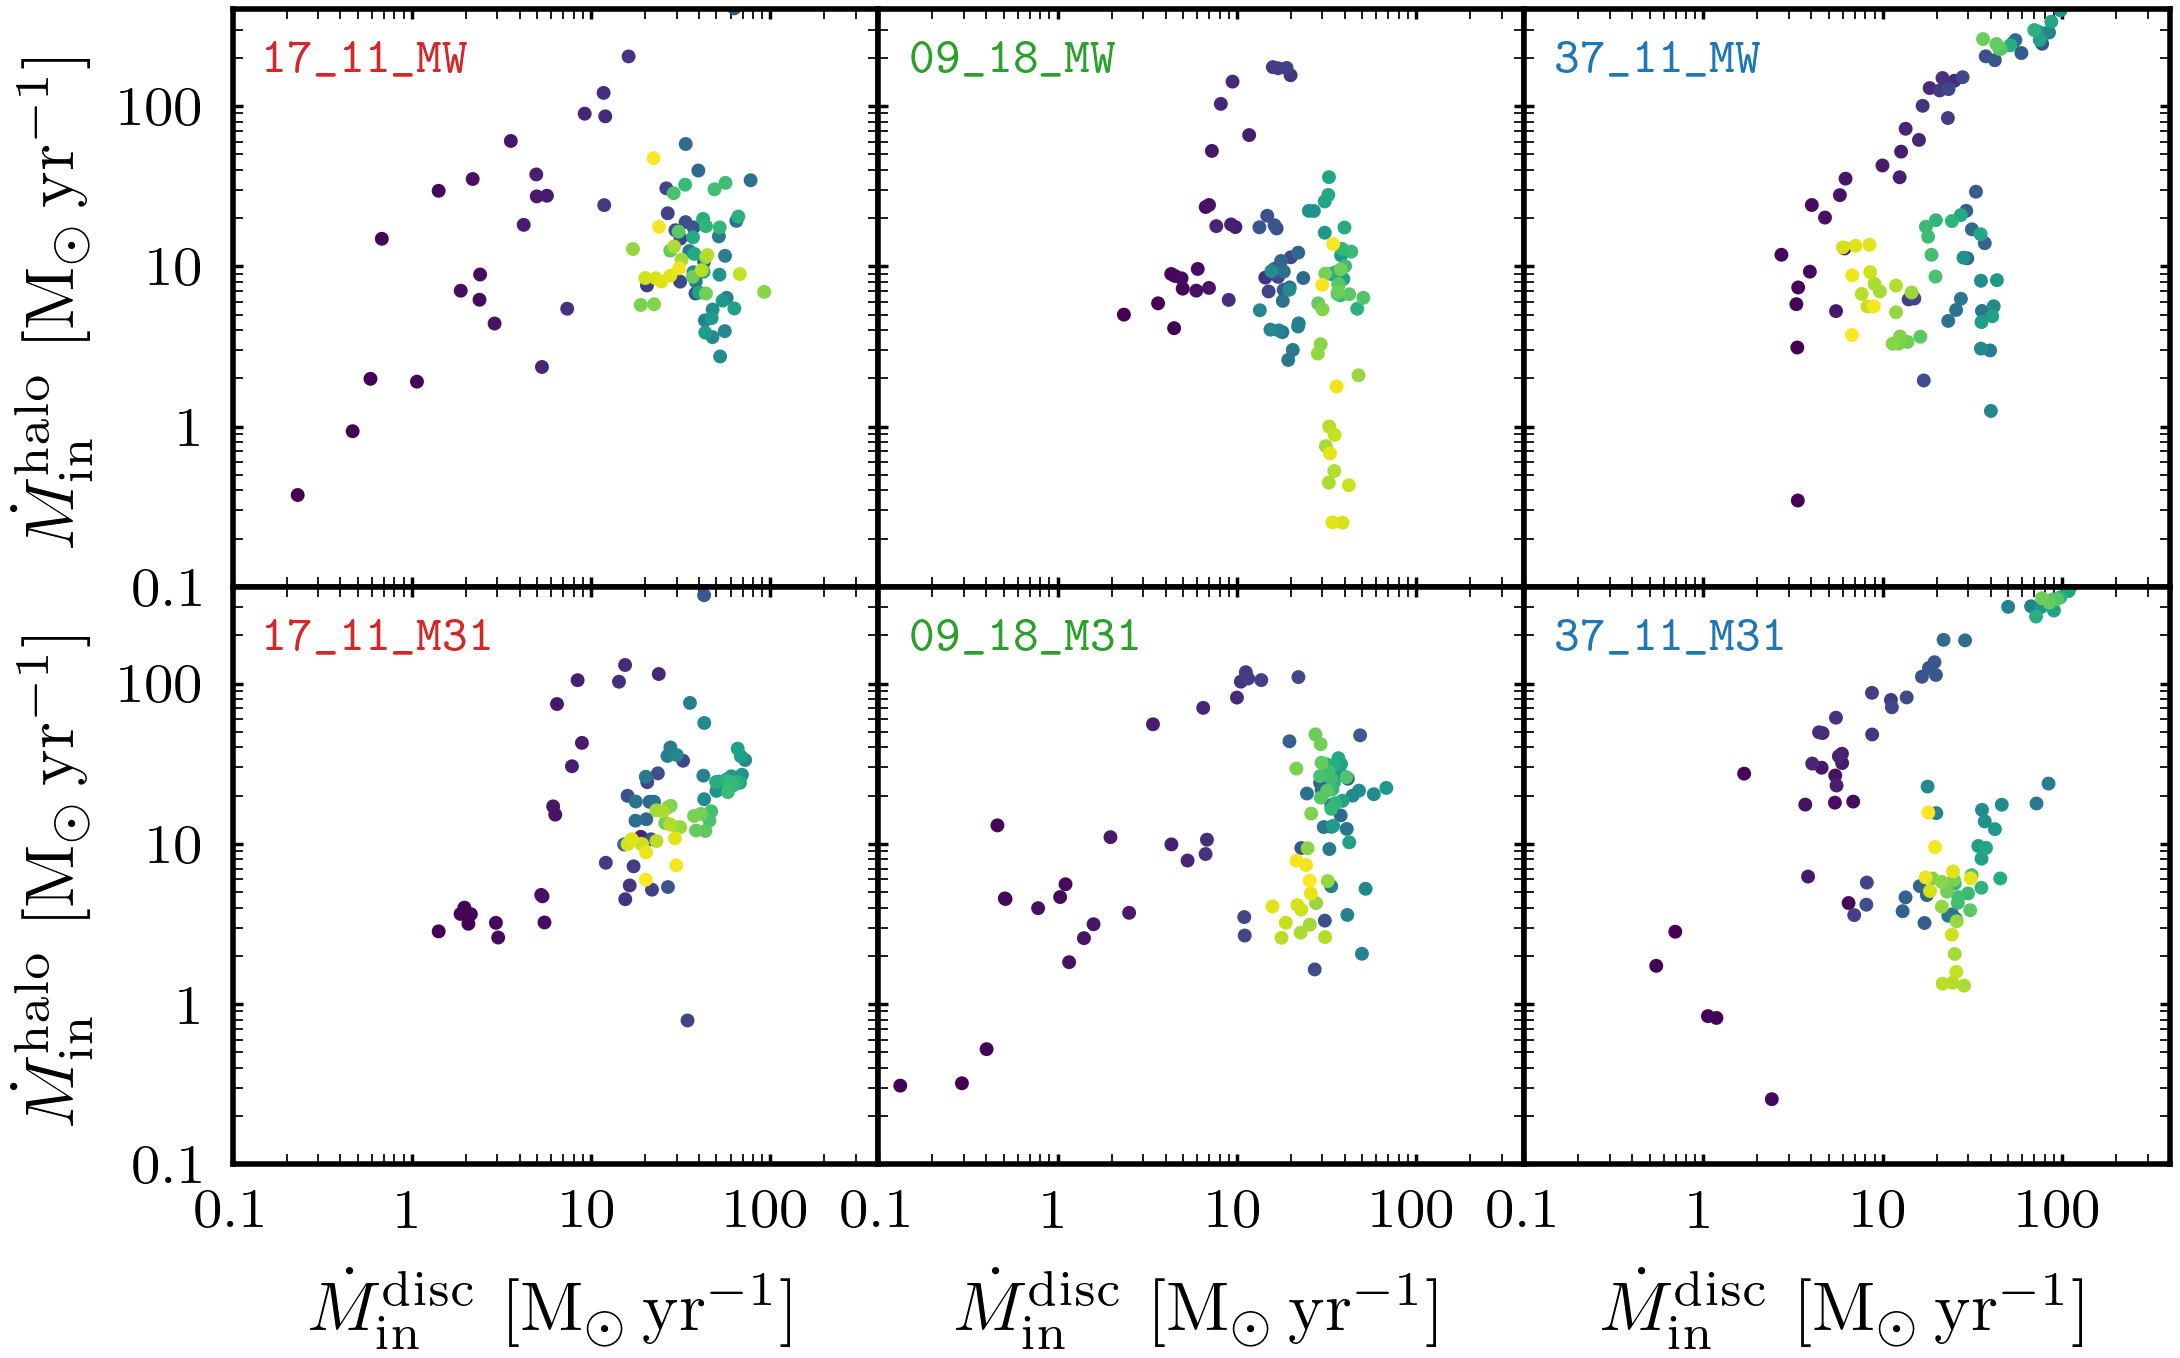
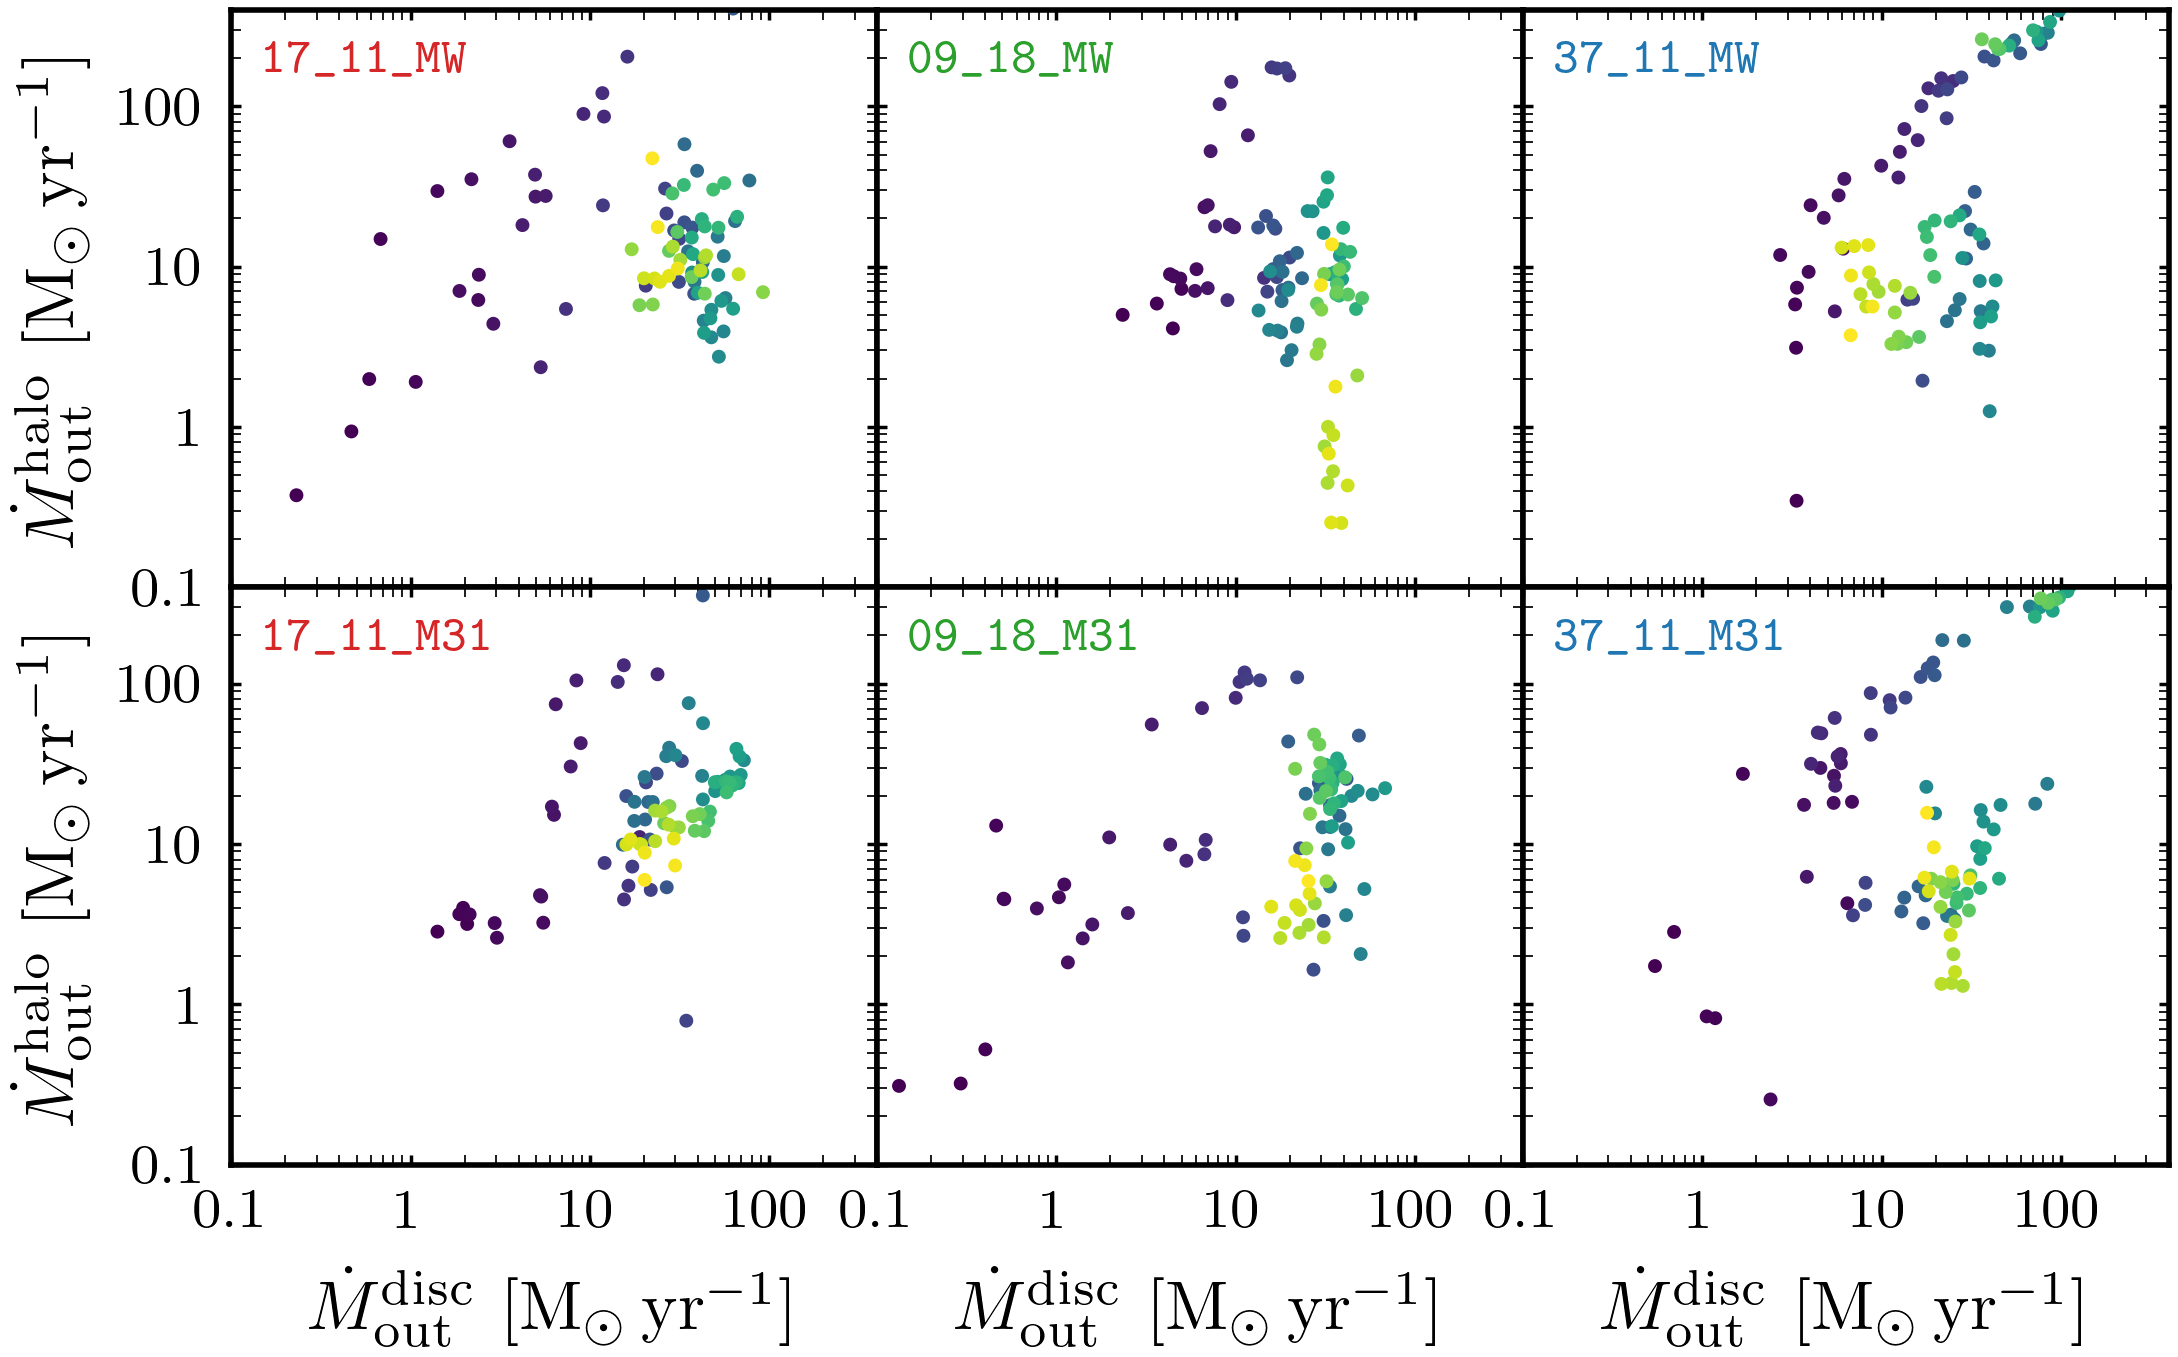
Fix figure label.

diff --git a/visualisation/accretion_tracers.py b/visualisation/accretion_tracers.py
@@ -183,6 +183,17 @@ def plot_halo_disc_relation(
     gs = fig.add_gridspec(nrows=2, ncols=3, hspace=0, wspace=0)
     axs = gs.subplots(sharex=True, sharey=False)
 
+    if rate_type == RateType.INFLOW:
+        xlabel = r'$\dot{M}_\mathrm{in}^\mathrm{disc}$ [$\mathrm{M}_\odot' + \
+            r'\, \mathrm{yr}^{-1}$]'
+        ylabel = r'$\dot{M}_\mathrm{in}^\mathrm{halo}$ [$\mathrm{M}_\odot' + \
+            r'\, \mathrm{yr}^{-1}$]'
+    elif rate_type == RateType.OUTFLOW:
+        xlabel = r'$\dot{M}_\mathrm{out}^\mathrm{disc}$ [$\mathrm{M}_\odot' + \
+            r'\, \mathrm{yr}^{-1}$]'
+        ylabel = r'$\dot{M}_\mathrm{out}^\mathrm{halo}$ [$\mathrm{M}_\odot' + \
+            r'\, \mathrm{yr}^{-1}$]'
+
     for ax in axs.flatten():
         ax.set_axisbelow(True)
         ax.set_xlim(0.1, 400)
@@ -193,12 +204,8 @@ def plot_halo_disc_relation(
         ax.set_yticks([0.1, 1, 10, 100])
         ax.set_xticklabels(["0.1", "1", "10", "100"])
         ax.set_yticklabels(["0.1", "1", "10", "100"])
-        ax.set_ylabel(
-            r'$\dot{M}_\mathrm{in}^\mathrm{halo}$ [$\mathrm{M}_\odot'
-            r'\, \mathrm{yr}^{-1}$]',)
-        ax.set_xlabel(
-            r'$\dot{M}_\mathrm{in}^\mathrm{disc}$ [$\mathrm{M}_\odot'
-            r'\, \mathrm{yr}^{-1}$]',)
+        ax.set_xlabel(xlabel)
+        ax.set_ylabel(ylabel)
         ax.label_outer()
 
     for i, simulation in enumerate(Settings.SIMULATIONS):
